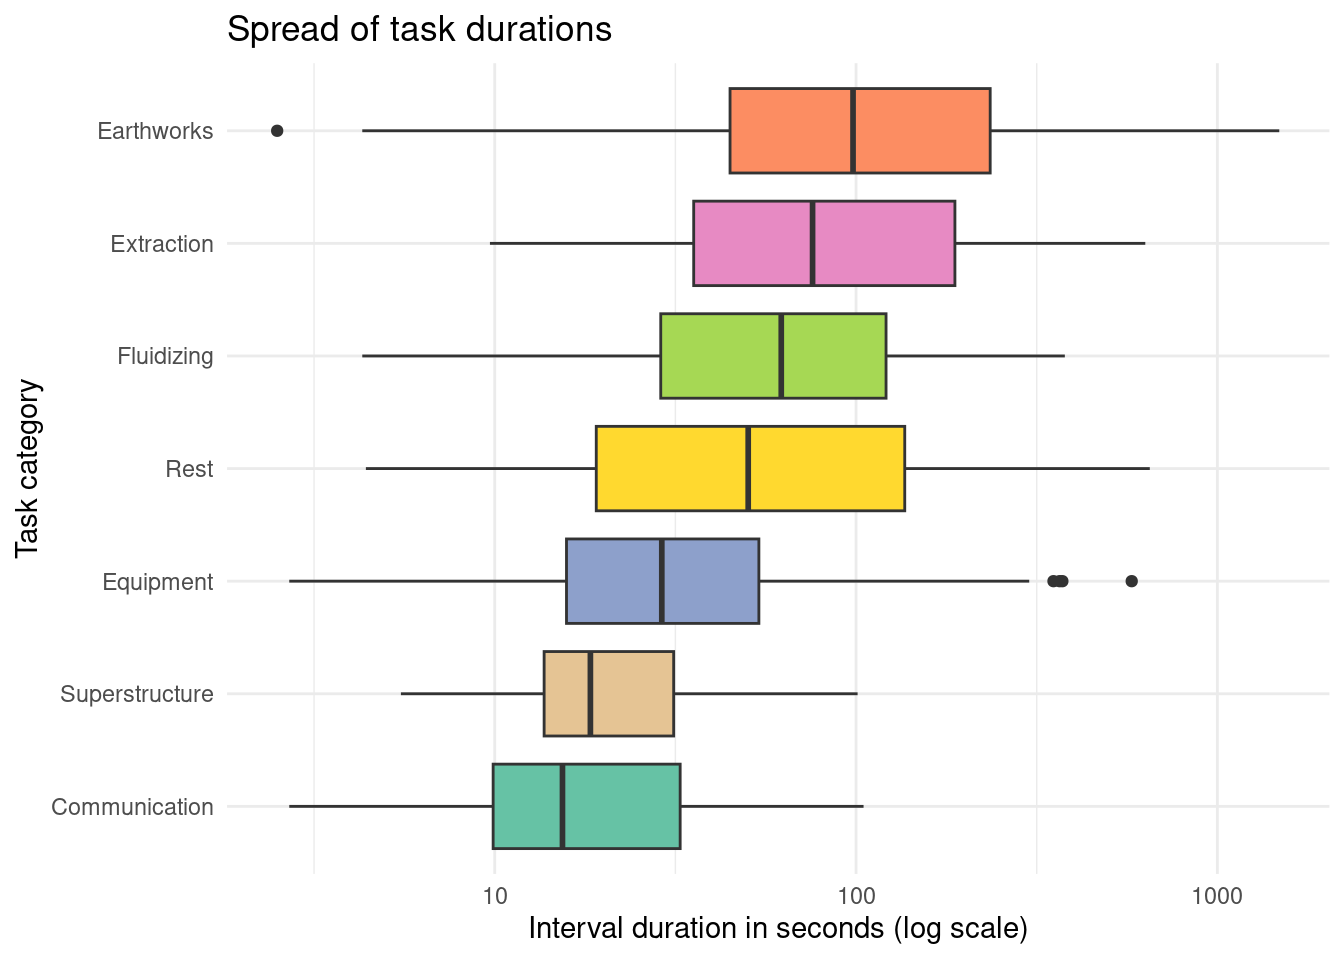
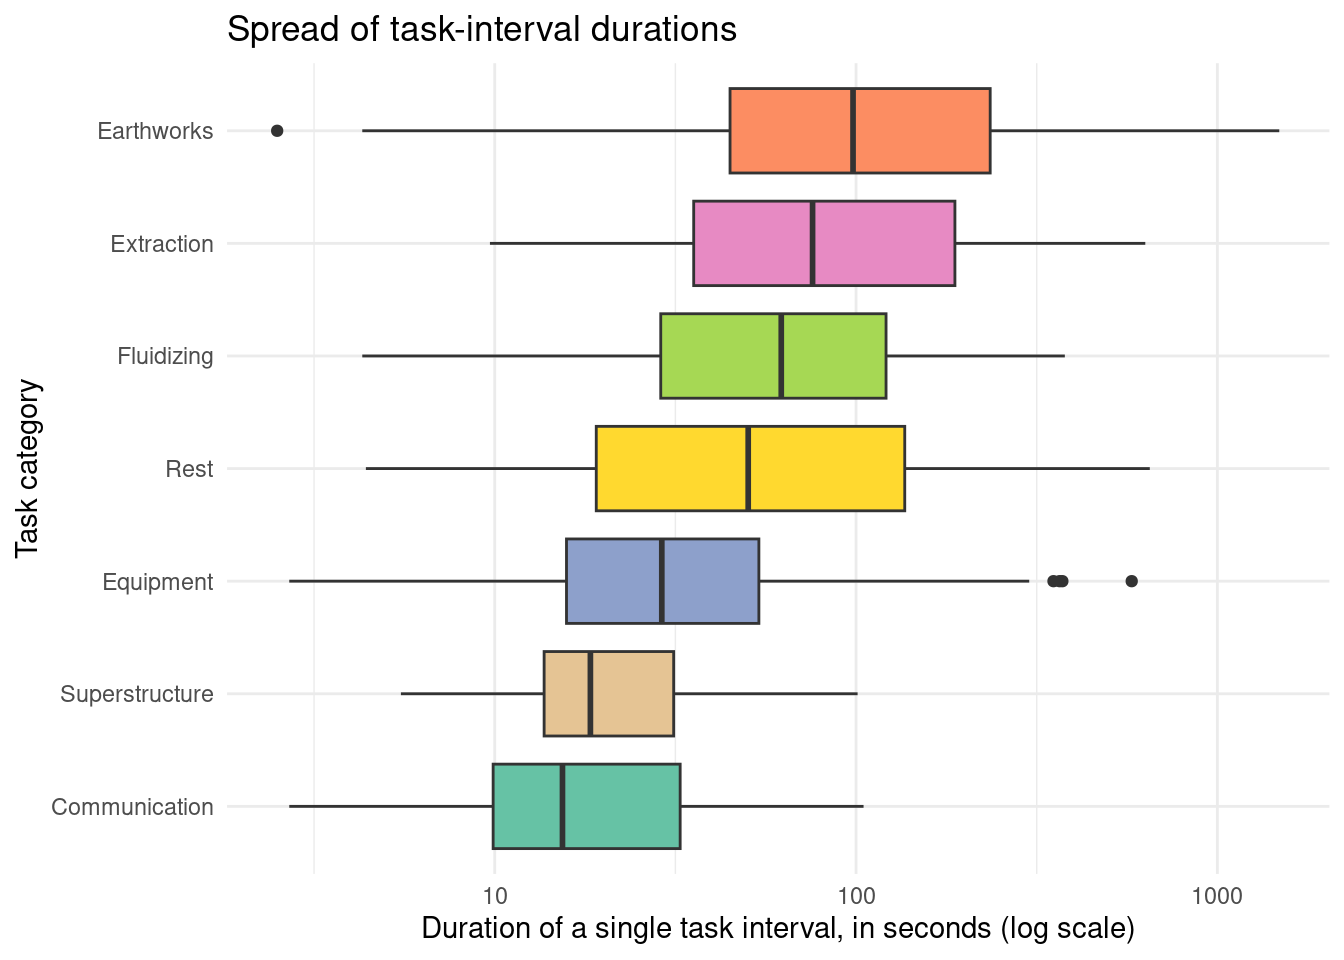
Added a second figure which shows the share of total job time spent on each task. Added definitions for the tasks. Removed an unnessary citation.

Changed region(s): [[0.3125, 0.9375, 0.8438, 1.0], [0.3438, 0.0, 0.5625, 0.0625]]

diff --git a/docs/index.html b/docs/index.html
@@ -107,6 +107,7 @@ div.csl-indent {
   <li><a href="#introduction" id="toc-introduction" class="nav-link active" data-scroll-target="#introduction">Introduction</a></li>
   <li><a href="#methods" id="toc-methods" class="nav-link" data-scroll-target="#methods">Methods</a>
   <ul class="collapse">
+  <li><a href="#task-and-subtask-categories" id="toc-task-and-subtask-categories" class="nav-link" data-scroll-target="#task-and-subtask-categories">Task and subtask categories</a></li>
   <li><a href="#install-libraries" id="toc-install-libraries" class="nav-link" data-scroll-target="#install-libraries">Install libraries</a></li>
   <li><a href="#import-and-combine" id="toc-import-and-combine" class="nav-link" data-scroll-target="#import-and-combine">Import and combine</a></li>
   <li><a href="#save-processed-data" id="toc-save-processed-data" class="nav-link" data-scroll-target="#save-processed-data">Save processed data</a></li>
@@ -114,7 +115,8 @@ div.csl-indent {
   <li><a href="#results" id="toc-results" class="nav-link" data-scroll-target="#results">Results</a>
   <ul class="collapse">
   <li><a href="#time-by-task-category" id="toc-time-by-task-category" class="nav-link" data-scroll-target="#time-by-task-category">Time by task category</a></li>
-  <li><a href="#distribution-of-interval-durations" id="toc-distribution-of-interval-durations" class="nav-link" data-scroll-target="#distribution-of-interval-durations">Distribution of interval durations</a></li>
+  <li><a href="#share-of-job-time-by-task" id="toc-share-of-job-time-by-task" class="nav-link" data-scroll-target="#share-of-job-time-by-task">Share of job time by task</a></li>
+  <li><a href="#distribution-of-task-interval-durations" id="toc-distribution-of-task-interval-durations" class="nav-link" data-scroll-target="#distribution-of-task-interval-durations">Distribution of task-interval durations</a></li>
   <li><a href="#summary-statistics" id="toc-summary-statistics" class="nav-link" data-scroll-target="#summary-statistics">Summary statistics</a></li>
   </ul></li>
   <li><a href="#conclusions" id="toc-conclusions" class="nav-link" data-scroll-target="#conclusions">Conclusions</a></li>
@@ -161,7 +163,20 @@ div.csl-indent {
 </section>
 <section id="methods" class="level1">
 <h1>Methods</h1>
-<p>Data were collected through structured ridealong observation, in which an enumerator timed one or more gulpers working in parallel on a single emptying job using a custom mobile data collection tool that logged the start and end of every task interval <span class="citation" data-cites="brands2022nairobi">(<a href="#ref-brands2022nairobi" role="doc-biblioref">Brands et al. 2022</a>)</span>. Each of the three raw session files records one row per interval: the gulper performing it, the high-level task and specific subtask, start and end clock times, duration in seconds, and a job identifier linking entries to their parent session. Because the collection tool pads each file with blank spacer rows and columns, the cleaning step below removes any column that is entirely missing and any row that is entirely missing before the three sessions are row-bound into a single combined dataset. Two columns are derived during cleaning, <code>job_date</code> (parsed from <code>job_id</code>) and <code>source_file</code>, to preserve session-level provenance, and the resulting analysis-ready dataset is written to <code>data/processed/processed_data.csv</code>.</p>
+<p>Data were collected through structured ridealong observation, in which an enumerator timed one or more gulpers working in parallel on a single emptying job using a custom mobile data collection tool that logged the start and end of every interval. Here, an <em>interval</em> refers to one continuous row in the raw data: the length of time a single gulper spent on one subtask, from the moment they started it until they switched to a different subtask or task. Each of the three raw session files therefore records one row per interval: the gulper performing it, the high-level task and specific subtask, start and end clock times, duration in seconds, and a job identifier linking entries to their parent session. Because the collection tool pads each file with blank spacer rows and columns, the cleaning step below removes any column that is entirely missing and any row that is entirely missing before the three sessions are row-bound into a single combined dataset. Two columns are derived during cleaning, <code>job_date</code> (parsed from <code>job_id</code>) and <code>source_file</code>, to preserve session-level provenance, and the resulting analysis-ready dataset is written to <code>data/processed/processed_data.csv</code>.</p>
+<section id="task-and-subtask-categories" class="level2">
+<h2 class="anchored" data-anchor-id="task-and-subtask-categories">Task and subtask categories</h2>
+<p>The raw data organise every observed interval under one of seven high-level <strong>tasks</strong>, most of which are broken down into more specific <strong>subtasks</strong>:</p>
+<ul>
+<li><strong>Earthworks</strong> — physical work on the pit itself: digging a trench, filling the trench back in, cutting a hole in the pit liner, and repairing the liner afterward.</li>
+<li><strong>Fluidizing</strong> — preparing the sludge for removal by adding water: fetching water, adding it to the pit, and mixing it in.</li>
+<li><strong>Extraction</strong> — the core removal step: manually removing sludge from the pit and pulling out solid trash mixed in with it.</li>
+<li><strong>Equipment</strong> — handling tools and containers: maneuvering them into position, cleaning them, and occasional repairs.</li>
+<li><strong>Superstructure</strong> — work on the latrine structure above the pit: inspection, with occasional cleaning or repair.</li>
+<li><strong>Communication</strong> — coordination talk, either with the client or between gulpers on site.</li>
+<li><strong>Rest</strong> — recovery breaks between other tasks; recorded as a single undifferentiated category with no subtask breakdown.</li>
+</ul>
+</section>
 <section id="install-libraries" class="level2">
 <h2 class="anchored" data-anchor-id="install-libraries">Install libraries</h2>
 <div class="cell">
@@ -250,23 +265,52 @@ Figure&nbsp;1: Total observed time by task category, summed across all three rid
 </div>
 <p><a href="#fig-task-time" class="quarto-xref">Figure&nbsp;1</a> shows that Earthworks and Rest together account for roughly two-thirds of all observed time, while Communication, Fluidizing, Equipment and Superstructure make up the remainder despite occurring more often as short interludes between other tasks. This suggests that trench-digging and idle recovery time, rather than the sludge-handling tasks most associated with “emptying,” are the largest time (and likely cost) drivers in a TDABC model of this service.</p>
 </section>
-<section id="distribution-of-interval-durations" class="level2">
-<h2 class="anchored" data-anchor-id="distribution-of-interval-durations">Distribution of interval durations</h2>
+<section id="share-of-job-time-by-task" class="level2">
+<h2 class="anchored" data-anchor-id="share-of-job-time-by-task">Share of job time by task</h2>
 <div class="cell">
-<div class="code-copy-outer-scaffold"><div class="sourceCode cell-code" id="cb6"><pre class="sourceCode r code-with-copy"><code class="sourceCode r"><span id="cb6-1"><a href="#cb6-1" aria-hidden="true" tabindex="-1"></a><span class="fu">ggplot</span>(</span>
-<span id="cb6-2"><a href="#cb6-2" aria-hidden="true" tabindex="-1"></a>  gulper_data,</span>
-<span id="cb6-3"><a href="#cb6-3" aria-hidden="true" tabindex="-1"></a>  <span class="fu">aes</span>(<span class="at">x =</span> <span class="fu">fct_reorder</span>(task, duration_seconds, <span class="at">.fun =</span> median), <span class="at">y =</span> duration_seconds, <span class="at">fill =</span> task)</span>
-<span id="cb6-4"><a href="#cb6-4" aria-hidden="true" tabindex="-1"></a>) <span class="sc">+</span></span>
-<span id="cb6-5"><a href="#cb6-5" aria-hidden="true" tabindex="-1"></a>  <span class="fu">geom_boxplot</span>(<span class="at">show.legend =</span> <span class="cn">FALSE</span>) <span class="sc">+</span></span>
-<span id="cb6-6"><a href="#cb6-6" aria-hidden="true" tabindex="-1"></a>  <span class="fu">scale_y_log10</span>() <span class="sc">+</span></span>
-<span id="cb6-7"><a href="#cb6-7" aria-hidden="true" tabindex="-1"></a>  <span class="fu">scale_fill_brewer</span>(<span class="at">palette =</span> <span class="st">"Set2"</span>) <span class="sc">+</span></span>
-<span id="cb6-8"><a href="#cb6-8" aria-hidden="true" tabindex="-1"></a>  <span class="fu">coord_flip</span>() <span class="sc">+</span></span>
-<span id="cb6-9"><a href="#cb6-9" aria-hidden="true" tabindex="-1"></a>  <span class="fu">labs</span>(</span>
-<span id="cb6-10"><a href="#cb6-10" aria-hidden="true" tabindex="-1"></a>    <span class="at">x =</span> <span class="st">"Task category"</span>,</span>
-<span id="cb6-11"><a href="#cb6-11" aria-hidden="true" tabindex="-1"></a>    <span class="at">y =</span> <span class="st">"Interval duration in seconds (log scale)"</span>,</span>
-<span id="cb6-12"><a href="#cb6-12" aria-hidden="true" tabindex="-1"></a>    <span class="at">title =</span> <span class="st">"Spread of task durations"</span></span>
-<span id="cb6-13"><a href="#cb6-13" aria-hidden="true" tabindex="-1"></a>  ) <span class="sc">+</span></span>
-<span id="cb6-14"><a href="#cb6-14" aria-hidden="true" tabindex="-1"></a>  <span class="fu">theme_minimal</span>()</span></code></pre></div><button title="Copy to Clipboard" class="code-copy-button"><i class="bi"></i></button></div>
+<div class="code-copy-outer-scaffold"><div class="sourceCode cell-code" id="cb6"><pre class="sourceCode r code-with-copy"><code class="sourceCode r"><span id="cb6-1"><a href="#cb6-1" aria-hidden="true" tabindex="-1"></a><span class="fu">ggplot</span>(gulper_data, <span class="fu">aes</span>(<span class="at">x =</span> <span class="fu">factor</span>(job_date), <span class="at">y =</span> duration_seconds, <span class="at">fill =</span> task)) <span class="sc">+</span></span>
+<span id="cb6-2"><a href="#cb6-2" aria-hidden="true" tabindex="-1"></a>  <span class="fu">geom_col</span>(<span class="at">position =</span> <span class="st">"fill"</span>) <span class="sc">+</span></span>
+<span id="cb6-3"><a href="#cb6-3" aria-hidden="true" tabindex="-1"></a>  <span class="fu">scale_y_continuous</span>(<span class="at">labels =</span> scales<span class="sc">::</span>percent) <span class="sc">+</span></span>
+<span id="cb6-4"><a href="#cb6-4" aria-hidden="true" tabindex="-1"></a>  <span class="fu">scale_fill_viridis_d</span>() <span class="sc">+</span></span>
+<span id="cb6-5"><a href="#cb6-5" aria-hidden="true" tabindex="-1"></a>  <span class="fu">labs</span>(</span>
+<span id="cb6-6"><a href="#cb6-6" aria-hidden="true" tabindex="-1"></a>    <span class="at">x =</span> <span class="st">"Job (session date)"</span>,</span>
+<span id="cb6-7"><a href="#cb6-7" aria-hidden="true" tabindex="-1"></a>    <span class="at">y =</span> <span class="st">"Share of job time"</span>,</span>
+<span id="cb6-8"><a href="#cb6-8" aria-hidden="true" tabindex="-1"></a>    <span class="at">fill =</span> <span class="st">"Task category"</span>,</span>
+<span id="cb6-9"><a href="#cb6-9" aria-hidden="true" tabindex="-1"></a>    <span class="at">title =</span> <span class="st">"How a job's time breaks down, task by task"</span></span>
+<span id="cb6-10"><a href="#cb6-10" aria-hidden="true" tabindex="-1"></a>  ) <span class="sc">+</span></span>
+<span id="cb6-11"><a href="#cb6-11" aria-hidden="true" tabindex="-1"></a>  <span class="fu">theme_minimal</span>()</span></code></pre></div><button title="Copy to Clipboard" class="code-copy-button"><i class="bi"></i></button></div>
+<div class="cell-output-display">
+<div id="fig-task-share" class="quarto-float quarto-figure quarto-figure-center anchored">
+<figure class="quarto-float quarto-float-fig figure">
+<div aria-describedby="fig-task-share-caption-0ceaefa1-69ba-4598-a22c-09a6ac19f8ca">
+<img src="index_files/figure-html/fig-task-share-1.png" class="img-fluid figure-img" width="672">
+</div>
+<figcaption class="quarto-float-caption-bottom quarto-float-caption quarto-float-fig" id="fig-task-share-caption-0ceaefa1-69ba-4598-a22c-09a6ac19f8ca">
+Figure&nbsp;2: Percentage of each job’s total observed time spent on each task category, shown separately for the three ridealong sessions.
+</figcaption>
+</figure>
+</div>
+</div>
+</div>
+<p><a href="#fig-task-share" class="quarto-xref">Figure&nbsp;2</a> shows that Earthworks is the single largest share of every job (29-45%), but the balance of the rest of the time shifts a lot from job to job: Extraction and Fluidizing together used over 40% of the 31 May session but under 15% of the 13 June session, while Rest was rare on 31 May (3%) yet accounted for over 40% of the 13 June session. A single fixed cost-driver rate per task would therefore understate the cost of jobs with more digging and recovery time and overstate the cost of jobs dominated by fluidizing and extraction.</p>
+</section>
+<section id="distribution-of-task-interval-durations" class="level2">
+<h2 class="anchored" data-anchor-id="distribution-of-task-interval-durations">Distribution of task-interval durations</h2>
+<div class="cell">
+<div class="code-copy-outer-scaffold"><div class="sourceCode cell-code" id="cb7"><pre class="sourceCode r code-with-copy"><code class="sourceCode r"><span id="cb7-1"><a href="#cb7-1" aria-hidden="true" tabindex="-1"></a><span class="fu">ggplot</span>(</span>
+<span id="cb7-2"><a href="#cb7-2" aria-hidden="true" tabindex="-1"></a>  gulper_data,</span>
+<span id="cb7-3"><a href="#cb7-3" aria-hidden="true" tabindex="-1"></a>  <span class="fu">aes</span>(<span class="at">x =</span> <span class="fu">fct_reorder</span>(task, duration_seconds, <span class="at">.fun =</span> median), <span class="at">y =</span> duration_seconds, <span class="at">fill =</span> task)</span>
+<span id="cb7-4"><a href="#cb7-4" aria-hidden="true" tabindex="-1"></a>) <span class="sc">+</span></span>
+<span id="cb7-5"><a href="#cb7-5" aria-hidden="true" tabindex="-1"></a>  <span class="fu">geom_boxplot</span>(<span class="at">show.legend =</span> <span class="cn">FALSE</span>) <span class="sc">+</span></span>
+<span id="cb7-6"><a href="#cb7-6" aria-hidden="true" tabindex="-1"></a>  <span class="fu">scale_y_log10</span>() <span class="sc">+</span></span>
+<span id="cb7-7"><a href="#cb7-7" aria-hidden="true" tabindex="-1"></a>  <span class="fu">scale_fill_brewer</span>(<span class="at">palette =</span> <span class="st">"Set2"</span>) <span class="sc">+</span></span>
+<span id="cb7-8"><a href="#cb7-8" aria-hidden="true" tabindex="-1"></a>  <span class="fu">coord_flip</span>() <span class="sc">+</span></span>
+<span id="cb7-9"><a href="#cb7-9" aria-hidden="true" tabindex="-1"></a>  <span class="fu">labs</span>(</span>
+<span id="cb7-10"><a href="#cb7-10" aria-hidden="true" tabindex="-1"></a>    <span class="at">x =</span> <span class="st">"Task category"</span>,</span>
+<span id="cb7-11"><a href="#cb7-11" aria-hidden="true" tabindex="-1"></a>    <span class="at">y =</span> <span class="st">"Duration of a single task interval, in seconds (log scale)"</span>,</span>
+<span id="cb7-12"><a href="#cb7-12" aria-hidden="true" tabindex="-1"></a>    <span class="at">title =</span> <span class="st">"Spread of task-interval durations"</span></span>
+<span id="cb7-13"><a href="#cb7-13" aria-hidden="true" tabindex="-1"></a>  ) <span class="sc">+</span></span>
+<span id="cb7-14"><a href="#cb7-14" aria-hidden="true" tabindex="-1"></a>  <span class="fu">theme_minimal</span>()</span></code></pre></div><button title="Copy to Clipboard" class="code-copy-button"><i class="bi"></i></button></div>
 <div class="cell-output-display">
 <div id="fig-duration-distribution" class="quarto-float quarto-figure quarto-figure-center anchored">
 <figure class="quarto-float quarto-float-fig figure">
@@ -274,35 +318,35 @@ Figure&nbsp;1: Total observed time by task category, summed across all three rid
 <img src="index_files/figure-html/fig-duration-distribution-1.png" class="img-fluid figure-img" width="672">
 </div>
 <figcaption class="quarto-float-caption-bottom quarto-float-caption quarto-float-fig" id="fig-duration-distribution-caption-0ceaefa1-69ba-4598-a22c-09a6ac19f8ca">
-Figure&nbsp;2: Distribution of individual interval durations by task category (log scale).
+Figure&nbsp;3: Distribution of individual task-interval durations by task category, on a log scale. An interval is one continuous row of the raw data: the length of time a single gulper spent on one subtask before switching to a different subtask or task.
 </figcaption>
 </figure>
 </div>
 </div>
 </div>
-<p><a href="#fig-duration-distribution" class="quarto-xref">Figure&nbsp;2</a> shows that Earthworks combines both a high total and a high median duration, while Communication intervals are consistently short with little spread. Rest and Extraction show the widest spread on the log scale, indicating that some individual rest or extraction intervals run far longer than a typical interval of that type.</p>
+<p><a href="#fig-duration-distribution" class="quarto-xref">Figure&nbsp;3</a> shows that Earthworks combines both a high total and a high median interval duration, while Communication intervals are consistently short with little spread. Rest and Extraction show the widest spread on the log scale, indicating that some individual rest or extraction intervals run far longer than a typical interval of that type.</p>
 </section>
 <section id="summary-statistics" class="level2">
 <h2 class="anchored" data-anchor-id="summary-statistics">Summary statistics</h2>
 <div class="cell">
-<div class="code-copy-outer-scaffold"><div class="sourceCode cell-code" id="cb7"><pre class="sourceCode r code-with-copy"><code class="sourceCode r"><span id="cb7-1"><a href="#cb7-1" aria-hidden="true" tabindex="-1"></a>task_summary <span class="ot">&lt;-</span> gulper_data <span class="sc">%&gt;%</span></span>
-<span id="cb7-2"><a href="#cb7-2" aria-hidden="true" tabindex="-1"></a>  <span class="fu">group_by</span>(task) <span class="sc">%&gt;%</span></span>
-<span id="cb7-3"><a href="#cb7-3" aria-hidden="true" tabindex="-1"></a>  <span class="fu">summarise</span>(</span>
-<span id="cb7-4"><a href="#cb7-4" aria-hidden="true" tabindex="-1"></a>    <span class="at">n =</span> <span class="fu">n</span>(),</span>
-<span id="cb7-5"><a href="#cb7-5" aria-hidden="true" tabindex="-1"></a>    <span class="at">mean_sec =</span> <span class="fu">round</span>(<span class="fu">mean</span>(duration_seconds), <span class="dv">1</span>),</span>
-<span id="cb7-6"><a href="#cb7-6" aria-hidden="true" tabindex="-1"></a>    <span class="at">median_sec =</span> <span class="fu">round</span>(<span class="fu">median</span>(duration_seconds), <span class="dv">1</span>),</span>
-<span id="cb7-7"><a href="#cb7-7" aria-hidden="true" tabindex="-1"></a>    <span class="at">sd_sec =</span> <span class="fu">round</span>(<span class="fu">sd</span>(duration_seconds), <span class="dv">1</span>)</span>
-<span id="cb7-8"><a href="#cb7-8" aria-hidden="true" tabindex="-1"></a>  ) <span class="sc">%&gt;%</span></span>
-<span id="cb7-9"><a href="#cb7-9" aria-hidden="true" tabindex="-1"></a>  <span class="fu">arrange</span>(<span class="fu">desc</span>(n))</span>
-<span id="cb7-10"><a href="#cb7-10" aria-hidden="true" tabindex="-1"></a></span>
-<span id="cb7-11"><a href="#cb7-11" aria-hidden="true" tabindex="-1"></a><span class="fu">kable</span>(</span>
-<span id="cb7-12"><a href="#cb7-12" aria-hidden="true" tabindex="-1"></a>  task_summary,</span>
-<span id="cb7-13"><a href="#cb7-13" aria-hidden="true" tabindex="-1"></a>  <span class="at">col.names =</span> <span class="fu">c</span>(<span class="st">"Task"</span>, <span class="st">"N intervals"</span>, <span class="st">"Mean (s)"</span>, <span class="st">"Median (s)"</span>, <span class="st">"SD (s)"</span>)</span>
-<span id="cb7-14"><a href="#cb7-14" aria-hidden="true" tabindex="-1"></a>)</span></code></pre></div><button title="Copy to Clipboard" class="code-copy-button"><i class="bi"></i></button></div>
+<div class="code-copy-outer-scaffold"><div class="sourceCode cell-code" id="cb8"><pre class="sourceCode r code-with-copy"><code class="sourceCode r"><span id="cb8-1"><a href="#cb8-1" aria-hidden="true" tabindex="-1"></a>task_summary <span class="ot">&lt;-</span> gulper_data <span class="sc">%&gt;%</span></span>
+<span id="cb8-2"><a href="#cb8-2" aria-hidden="true" tabindex="-1"></a>  <span class="fu">group_by</span>(task) <span class="sc">%&gt;%</span></span>
+<span id="cb8-3"><a href="#cb8-3" aria-hidden="true" tabindex="-1"></a>  <span class="fu">summarise</span>(</span>
+<span id="cb8-4"><a href="#cb8-4" aria-hidden="true" tabindex="-1"></a>    <span class="at">n =</span> <span class="fu">n</span>(),</span>
+<span id="cb8-5"><a href="#cb8-5" aria-hidden="true" tabindex="-1"></a>    <span class="at">mean_sec =</span> <span class="fu">round</span>(<span class="fu">mean</span>(duration_seconds), <span class="dv">1</span>),</span>
+<span id="cb8-6"><a href="#cb8-6" aria-hidden="true" tabindex="-1"></a>    <span class="at">median_sec =</span> <span class="fu">round</span>(<span class="fu">median</span>(duration_seconds), <span class="dv">1</span>),</span>
+<span id="cb8-7"><a href="#cb8-7" aria-hidden="true" tabindex="-1"></a>    <span class="at">sd_sec =</span> <span class="fu">round</span>(<span class="fu">sd</span>(duration_seconds), <span class="dv">1</span>)</span>
+<span id="cb8-8"><a href="#cb8-8" aria-hidden="true" tabindex="-1"></a>  ) <span class="sc">%&gt;%</span></span>
+<span id="cb8-9"><a href="#cb8-9" aria-hidden="true" tabindex="-1"></a>  <span class="fu">arrange</span>(<span class="fu">desc</span>(n))</span>
+<span id="cb8-10"><a href="#cb8-10" aria-hidden="true" tabindex="-1"></a></span>
+<span id="cb8-11"><a href="#cb8-11" aria-hidden="true" tabindex="-1"></a><span class="fu">kable</span>(</span>
+<span id="cb8-12"><a href="#cb8-12" aria-hidden="true" tabindex="-1"></a>  task_summary,</span>
+<span id="cb8-13"><a href="#cb8-13" aria-hidden="true" tabindex="-1"></a>  <span class="at">col.names =</span> <span class="fu">c</span>(<span class="st">"Task"</span>, <span class="st">"N intervals"</span>, <span class="st">"Mean (s)"</span>, <span class="st">"Median (s)"</span>, <span class="st">"SD (s)"</span>)</span>
+<span id="cb8-14"><a href="#cb8-14" aria-hidden="true" tabindex="-1"></a>)</span></code></pre></div><button title="Copy to Clipboard" class="code-copy-button"><i class="bi"></i></button></div>
 <div id="tbl-task-summary" class="cell quarto-float quarto-figure quarto-figure-center anchored">
 <figure class="quarto-float quarto-float-tbl figure">
 <figcaption class="quarto-float-caption-top quarto-float-caption quarto-float-tbl" id="tbl-task-summary-caption-0ceaefa1-69ba-4598-a22c-09a6ac19f8ca">
-Table&nbsp;1: Summary statistics for interval duration (seconds) by task category.
+Table&nbsp;1: Summary statistics for task-interval duration (seconds) by task category.
 </figcaption>
 <div aria-describedby="tbl-task-summary-caption-0ceaefa1-69ba-4598-a22c-09a6ac19f8ca">
 <div class="cell-output-display">